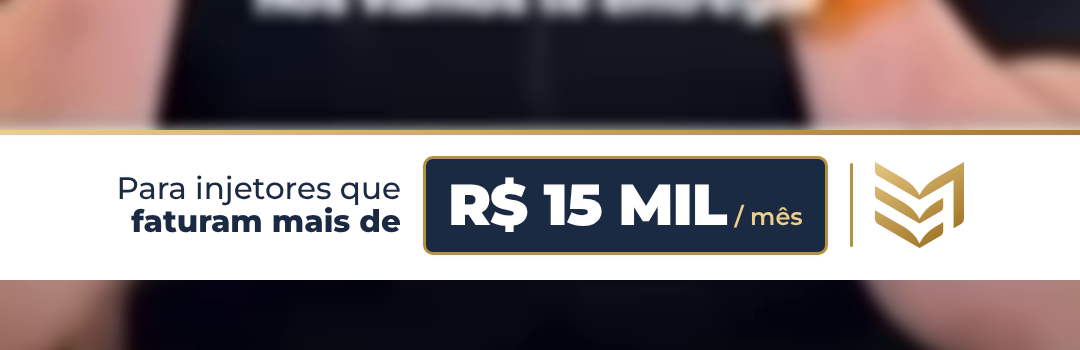
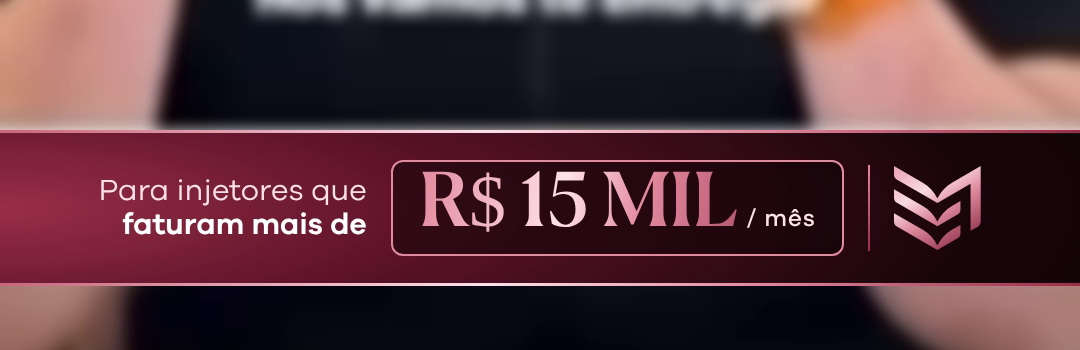
Elite Experience: faixa, CTA e script de criativo na identidade oficial (granada/rosé, Canela Deck + Galano)
Também corrige fea_transcrever.py: passa o áudio já decodificado ao Whisper (PyAV 19 removeu metadata_errors).

Claude-Session: https://claude.ai/code/session_0117TgWTUDUiY53Vca1N5i1x

diff --git a/FEA-edicao-videos/FEA-elite-faixa/FEA-elite-faixa.html b/FEA-edicao-videos/FEA-elite-faixa/FEA-elite-faixa.html
@@ -1,20 +1,21 @@
 <!doctype html><html><head><meta charset="utf-8"><style>
-@font-face{font-family:M;font-weight:500;src:url(../../fonts/Montserrat-Medium.ttf)}
-@font-face{font-family:M;font-weight:700;src:url(../../fonts/Montserrat-SemiBold.ttf)}
-@font-face{font-family:M;font-weight:800;src:url(../../fonts/Montserrat-ExtraBold.ttf)}
-@font-face{font-family:M;font-weight:900;src:url(../../fonts/Montserrat-Black.ttf)}
+@font-face{font-family:G;font-weight:300;src:url(fonts/Galano-Regular.otf)}
+@font-face{font-family:G;font-weight:500;src:url(fonts/Galano-Medium.otf)}
+@font-face{font-family:G;font-weight:600;src:url(fonts/Galano-SemiBold.otf)}
+@font-face{font-family:C;src:url(fonts/CanelaDeck-Medium.otf)}
 html,body{margin:0;background:transparent}
-.faixa{width:1080px;height:150px;background:#fff;display:flex;align-items:center;justify-content:center;gap:22px;font-family:M;position:relative;box-shadow:0 6px 18px rgba(0,0,0,.25)}
-.faixa:before{content:"";position:absolute;left:0;right:0;top:0;height:5px;background:linear-gradient(90deg,#ecd08a,#a87b2c)}
-.txt{color:#1c2b44;font-size:31px;line-height:1.08;text-align:right;font-weight:500}
-.txt b{font-weight:800}
-.box{background:#1c2b44;color:#fff;border-radius:10px;padding:10px 22px 12px;display:flex;align-items:baseline;gap:8px;border:3px solid #b8913f}
-.box .v{font-weight:900;font-size:58px;letter-spacing:-1px;color:#fff}
-.box .v span{color:#ecd08a}
-.box .m{font-weight:700;font-size:24px;color:#ecd08a}
-.sep{width:3px;height:84px;background:#b8913f;border-radius:2px}
-.ic{height:86px}
+.faixa{width:1080px;height:156px;display:flex;align-items:center;justify-content:center;gap:24px;position:relative;
+ background:radial-gradient(120% 220% at 0% 50%,#9B2F4B 0%,#5a1328 35%,#1a070c 75%,#0F0507 100%)}
+.faixa:before,.faixa:after{content:"";position:absolute;left:0;right:0;height:3px;background:linear-gradient(90deg,#c9677f,#FFE3EA 45%,#E48AA0 70%,#9B2F4B)}
+.faixa:before{top:0}.faixa:after{bottom:0}
+.txt{color:#FFE3EA;font-family:G;font-weight:300;font-size:30px;line-height:1.12;text-align:right}
+.txt b{font-weight:600;color:#fff}
+.box{display:flex;align-items:baseline;gap:10px;padding:6px 26px 12px;border-radius:12px;border:2px solid #E48AA0;background:rgba(15,5,7,.55)}
+.v{font-family:C;font-size:74px;letter-spacing:-1px;line-height:1;background:linear-gradient(100deg,#E48AA0 0%,#FFE3EA 45%,#E48AA0 70%,#b85a74 100%);-webkit-background-clip:text;color:transparent}
+.m{font-family:G;font-weight:500;font-size:24px;color:#FFE3EA;letter-spacing:1px}
+.sep{width:2px;height:86px;background:linear-gradient(#E48AA0,#9B2F4B)}
+.ic{height:84px}
 </style></head><body>
 <div class="faixa" id="f"><div class="txt">Para injetores que<br><b>faturam mais de</b></div>
 <div class="box"><div class="v">R$ 15 MIL</div><div class="m">/ mês</div></div>
-<div class="sep"></div><img class="ic" src="icone.svg"></div></body></html>
+<div class="sep"></div><img class="ic" src="EE_Simbolo_Principal.svg"></div></body></html>

diff --git a/FEA-edicao-videos/FEA-elite-faixa/FEA-elite-cta.html b/FEA-edicao-videos/FEA-elite-faixa/FEA-elite-cta.html
@@ -1,0 +1,6 @@
+<!doctype html><html><head><meta charset="utf-8"><style>
+@font-face{font-family:G;font-weight:600;src:url(fonts/Galano-SemiBold.otf)}
+html,body{margin:0;background:transparent}
+#f{display:inline-flex;align-items:center;gap:18px;background:#E48AA0;border-radius:999px;padding:22px 46px 22px 26px;font-family:G;font-weight:600;font-size:36px;letter-spacing:5px;color:#0F0507}
+.c{width:46px;height:46px;border-radius:50%;background:#0F0507;display:flex;align-items:center;justify-content:center}
+</style></head><body><div id="f"><div class="c"><svg width="22" height="14" viewBox="0 0 22 14"><path d="M2 2l9 9 9-9" stroke="#E48AA0" stroke-width="3.5" fill="none" stroke-linecap="round" stroke-linejoin="round"/></svg></div>CLIQUE E SAIBA MAIS</div></body></html>

diff --git a/FEA-edicao-videos/FEA-elite-faixa/fea_faixa_png.js b/FEA-edicao-videos/FEA-elite-faixa/fea_faixa_png.js
@@ -1,2 +1,2 @@
-const {chromium}=require('playwright');(async()=>{const b=await chromium.launch();const p=await b.newPage({viewport:{width:1080,height:200}});
+const {chromium}=require('playwright');(async()=>{const b=await chromium.launch();const p=await b.newPage({viewport:{width:1080,height:1920}});
 await p.goto('file://'+process.argv[2]);await p.waitForTimeout(500);await (await p.$('#f')).screenshot({path:process.argv[3],omitBackground:true});await b.close()})();

diff --git a/FEA-edicao-videos/FEA-elite-faixa/FEA-elite-flash.html b/FEA-edicao-videos/FEA-elite-faixa/FEA-elite-flash.html
@@ -1,0 +1,2 @@
+<!doctype html><html><head><style>html,body{margin:0;background:transparent}
+#f{width:1080px;height:1920px;background:radial-gradient(70% 50% at 0% 45%,rgba(228,138,160,.85),rgba(155,47,75,.45) 45%,rgba(142,31,58,.15) 75%,rgba(0,0,0,0) 100%)}</style></head><body><div id="f"></div></body></html>

diff --git a/FEA-edicao-videos/fea_elite_criativo.py b/FEA-edicao-videos/fea_elite_criativo.py
@@ -1,0 +1,191 @@
+#!/usr/bin/env python3
+"""FEA: edição de criativo (anúncio) do Elite Experience no estilo "faixa de qualificação".
+
+Estilo pedido pela Keila em 17/11/2026 (referência: anúncio com faixa "Para empresas que faturam
+mais de R$ 100 MIL / mês"), aplicado na identidade visual oficial do Elite Experience
+(manual em ELITE EXPERIENCE > 5. LOGO > Elite Experience - Identidade Visual):
+  - faixa granada/rosé com "Para injetores que faturam mais de R$ 15 MIL / mês" do início até
+    o momento em que ele fala "clica/clicar aqui em saiba mais";
+  - dali até o fim, pílula "CLIQUE E SAIBA MAIS" (chamada do manual: Galano SemiBold sobre rosé
+    #E48AA0, texto #0F0507) e um flash de luz rosé de 0,8 s na entrada;
+  - legenda curta (até 3 palavras), Galano Grotesque SemiBold branca, números e palavras-chave
+    em rosé #E48AA0;
+  - zoom alternado (1,00 / 1,10) a cada frase, como os cortes secos da referência.
+
+Uso:
+  python3 fea_elite_criativo.py BRUTO.MOV TRANSCRICAO.json SAIDA.mp4 --ativos PASTA [--inicio s] [--fim s]
+PASTA de ativos: faixa.png, cta.png, flash.png e fonts/ (Galano Grotesque).
+"""
+import argparse
+import json
+import os
+import re
+import subprocess
+import sys
+
+sys.path.insert(0, os.path.dirname(os.path.abspath(__file__)))
+from fea_editar_video import CORRECOES  # regra FEA ("pra" -> "para") e grafias
+
+EXTRAS = [(r"\bSaba\b", "Saiba"), (r"\bsaiba mais\b", "Saiba Mais"), (r"\b[Ee]lite [Ee]xperience\b", "Elite Experience"),
+          (r"\b15 mil reais\b", "R$ 15 mil"), (r"\btá\b", "está"), (r"\bTá\b", "Está")]
+DESTAQUE = re.compile(r"^(R\$|\d+%?|mil|gratuito|gratuita|Elite|Experience|São|Paulo|200|dois|dias|presencial|"
+                      r"marketing|vendas|equipe|crescer|selecionar|selecionado|selecionadas)$", re.I)
+LIGACAO = re.compile(r"(?i)^(e|o|a|os|as|de|do|da|dos|das|em|no|na|um|uma|que|para|pra|com|se|eu|você|"
+                     r"sua|seu|teu|tua|meu|minha|é|por|ao|à)$")
+ROSE ="&H00A08AE4&"   # #E48AA0 em BGR do ASS
+BRANCO = "&H00FFFFFF&"
+
+
+def corrigir(t):
+    for a, b in CORRECOES + EXTRAS:
+        t = re.sub(a, b, t)
+    return t
+
+
+def palavras(tr, ini, fim):
+    out = []
+    for s in tr:
+        for w in s["words"]:
+            if w["s"] >= ini - 0.05 and w["e"] <= fim + 0.3:
+                out.append({"s": max(w["s"], ini) - ini, "e": min(w["e"], fim) - ini, "w": w["w"].strip()})
+    return out
+
+
+UNIDADES = [r"(?i)^saiba mais", r"(?i)^são paulo", r"(?i)^\d+ mil( reais)?", r"(?i)^elite experience",
+            r"(?i)^dois dias", r"(?i)^\d+ (pessoas|profissionais|inscritos)"]
+
+
+def juntar_unidades(pal):
+    """Expressões que nunca se separam na legenda viram um único token."""
+    out, i = [], 0
+    while i < len(pal):
+        feito = False
+        for n in (3, 2):
+            grupo = pal[i:i + n]
+            if len(grupo) < n:
+                continue
+            txt = " ".join(re.sub(r"[.,!?]$", "", g["w"]) for g in grupo[:-1]) + " " + grupo[-1]["w"]
+            if any(re.match(u + r"[.,!?]?$", txt) for u in UNIDADES):
+                out.append({"s": grupo[0]["s"], "e": grupo[-1]["e"], "w": txt})
+                i += n
+                feito = True
+                break
+        if not feito:
+            out.append(pal[i])
+            i += 1
+    return out
+
+
+def blocos(pal, max_pal=3, max_chars=20):
+    """Agrupa em blocos curtos; quebra em pontuação e respeita limite de caracteres."""
+    pal = juntar_unidades(pal)
+    res, cur = [], []
+    for p in pal:
+        texto = " ".join(x["w"] for x in cur + [p])
+        if cur and (sum(len(x["w"].split()) for x in cur) >= max_pal or len(texto) > max_chars):
+            res.append(cur)
+            cur = []
+        cur.append(p)
+        if re.search(r"[.,!?]$", p["w"]):
+            res.append(cur)
+            cur = []
+    if cur:
+        res.append(cur)
+    # palavra de ligação, número ou "São" no fim do bloco vai para o próximo bloco
+    # (evita "em São" / "Paulo", "de 15" / "mil")
+    for i in range(len(res) - 1):
+        while (len(res[i]) > 1 and not re.search(r"[.,!?]$", res[i][-1]["w"])
+               and LIGACAO.match(res[i][-1]["w"])
+               and sum(len(x["w"].split()) for x in res[i + 1]) < 4):
+            res[i + 1].insert(0, res[i].pop())
+    return [b for b in res if b]
+
+
+def ts(t):
+    t = max(t, 0)
+    return f"{int(t // 3600)}:{int(t % 3600 // 60):02d}:{t % 60:05.2f}"
+
+
+def gerar_ass(bls, caminho, y=1235):
+    cab = ("[Script Info]\nScriptType: v4.00+\nPlayResX: 1080\nPlayResY: 1920\nWrapStyle: 2\n\n"
+           "[V4+ Styles]\nFormat: Name, Fontname, Fontsize, PrimaryColour, SecondaryColour, OutlineColour, BackColour, "
+           "Bold, Italic, Underline, StrikeOut, ScaleX, ScaleY, Spacing, Angle, BorderStyle, Outline, Shadow, Alignment, "
+           "MarginL, MarginR, MarginV, Encoding\n"
+           "Style: L,Galano Grotesque SemiBold,72,&H00FFFFFF,&H00FFFFFF,&H00070510,&H96070510,0,0,0,0,100,100,0,0,1,0,3,5,60,60,0,1\n\n"
+           "[Events]\nFormat: Layer, Start, End, Style, Name, MarginL, MarginR, MarginV, Effect, Text\n")
+    linhas = []
+    for i, b in enumerate(bls):
+        s = b[0]["s"]
+        e = bls[i + 1][0]["s"] if i + 1 < len(bls) and bls[i + 1][0]["s"] - b[-1]["e"] < 0.6 else b[-1]["e"] + 0.15
+        texto = corrigir(" ".join(p["w"] for p in b))
+        texto = re.sub(r"[.,]$", "", texto)
+        partes = []
+        for w in texto.split(" "):
+            nucleo = re.sub(r"[^\wÀ-ÿ$%]", "", w)
+            cor = ROSE if DESTAQUE.match(nucleo or "-") else BRANCO
+            partes.append("{\\c" + cor + "}" + w)
+        linhas.append(f"Dialogue: 0,{ts(s)},{ts(e)},L,,0,0,0,,{{\\pos(540,{y})\\fad(60,0)}}" + " ".join(partes))
+    open(caminho, "w", encoding="utf-8").write(cab + "\n".join(linhas) + "\n")
+
+
+def momento_cta(pal):
+    for i, p in enumerate(pal):
+        if re.match(r"(?i)clic", p["w"]):
+            return p["s"]
+    return None
+
+
+def main():
+    ap = argparse.ArgumentParser()
+    ap.add_argument("entrada"); ap.add_argument("transcricao"); ap.add_argument("saida")
+    ap.add_argument("--ativos", required=True)
+    ap.add_argument("--inicio", type=float); ap.add_argument("--fim", type=float)
+    ap.add_argument("--ffmpeg", default="ffmpeg")
+    ap.add_argument("--previa", action="store_true")
+    a = ap.parse_args()
+    tr = json.load(open(a.transcricao, encoding="utf-8"))
+    todas = [w for s in tr for w in s["words"]]
+    ini = a.inicio if a.inicio is not None else max(0, todas[0]["s"] - 0.25)
+    fim = a.fim if a.fim is not None else todas[-1]["e"] + 0.4
+    dur = fim - ini
+    pal = palavras(tr, ini, fim)
+    cta = momento_cta(pal) or dur * 0.6
+    bls = blocos(pal)
+    base = os.path.splitext(a.saida)[0]
+    ass = base + ".ass"
+    gerar_ass(bls, ass)
+
+    # zoom alternado por frase (fronteiras = início de cada segmento da transcrição)
+    cortes = [max(0.0, s["start"] - ini) for s in tr if ini - 0.1 <= s["start"] < fim]
+    cortes = sorted(set(round(c, 2) for c in cortes if c > 0.3))
+    # expressão em cadeia: z(t) = z_k para t no intervalo k
+    zs = []
+    for i, c in enumerate(cortes):
+        zs.append((c, 1.10 if i % 2 == 0 else 1.0))
+    expr = "1"
+    for c, z in zs:
+        expr = f"if(gte(t\\,{c})\\,{z}\\,{expr})"
+    at = a.ativos
+    esc = ass.replace(":", "\\:").replace("'", "\\'")
+    fx = (f"[0:v]setpts=PTS-STARTPTS,scale=1080:1920:force_original_aspect_ratio=increase,crop=1080:1920,"
+          f"scale=w='trunc(1080*{expr}/2)*2':h='trunc(1920*{expr}/2)*2':eval=frame,crop=1080:1920,setsar=1,fps=30[v0];"
+          f"[1:v]format=rgba[fa];[2:v]format=rgba[ct];"
+          f"[3:v]format=rgba,fade=in:st={cta:.2f}:d=0.2:alpha=1,fade=out:st={cta + 0.25:.2f}:d=0.6:alpha=1[fl];"
+          f"[v0][fa]overlay=0:1395:enable='lt(t,{cta:.2f})'[v1];"
+          f"[v1][ct]overlay=(W-w)/2:1420:enable='gte(t,{cta:.2f})'[v2];"
+          f"[v2][fl]overlay=0:0:enable='between(t,{cta:.2f},{cta + 0.9:.2f})'[v3];"
+          f"[v3]ass='{esc}':fontsdir='{at}/fonts'[vo]")
+    cmd = [a.ffmpeg, "-v", "error", "-y", "-ss", f"{ini:.3f}", "-t", f"{dur:.3f}", "-i", a.entrada,
+           "-loop", "1", "-t", f"{dur:.3f}", "-i", f"{at}/faixa.png",
+           "-loop", "1", "-t", f"{dur:.3f}", "-i", f"{at}/cta.png",
+           "-loop", "1", "-t", f"{dur:.3f}", "-framerate", "30", "-i", f"{at}/flash.png",
+           "-filter_complex", fx, "-map", "[vo]", "-map", "0:a",
+           "-c:v", "libx264", "-preset", "veryfast" if a.previa else "slow", "-crf", "23" if a.previa else "18",
+           "-pix_fmt", "yuv420p", "-profile:v", "high", "-c:a", "aac", "-b:a", "192k", "-ar", "48000",
+           "-movflags", "+faststart", "-t", f"{dur:.3f}", a.saida]
+    subprocess.run(cmd, check=True)
+    print(f"OK {a.saida}: {dur:.1f} s, CTA aos {cta:.1f} s, {len(bls)} blocos de legenda")
+
+
+if __name__ == "__main__":
+    main()

diff --git a/FEA-edicao-videos/fea_transcrever.py b/FEA-edicao-videos/fea_transcrever.py
@@ -168,7 +168,7 @@ def main():
         if so_complemento:
             out = [s for s in json.load(open(destino, encoding="utf-8")) if not s.get("complemento")]
         else:
-            segs, _ = modelo.transcribe(wav, language="pt", word_timestamps=True, initial_prompt=PROMPT,
+            segs, _ = modelo.transcribe(carregar_audio(wav), language="pt", word_timestamps=True, initial_prompt=PROMPT,
                                         vad_filter=True, condition_on_previous_text=False)
             out = [{"start": s.start, "end": s.end, "text": s.text,
                     "words": [{"s": x.start, "e": x.end, "w": x.word} for x in s.words]} for s in segs]

diff --git a/FEA-edicao-videos/FEA-elite-faixa/LEIAME-FEA.md b/FEA-edicao-videos/FEA-elite-faixa/LEIAME-FEA.md
@@ -1,0 +1,8 @@
+# FEA Elite Experience: ativos do criativo "faixa de qualificação"
+
+Identidade: manual oficial do Elite Experience (Drive: ELITE EXPERIENCE > 5. LOGO > Elite Experience - Identidade Visual).
+Cores: base escura #0F0507, granada #8E1F3A, bordô #9B2F4B, rosé #E48AA0, rosé claro #FFE3EA.
+Fontes: Canela Deck (valor) e Galano Grotesque (textos), baixar da pasta 03 - TIPOGRAFIA do manual para `fonts/` (não ficam no git por licença).
+
+Gerar PNG: `node fea_faixa_png.js $PWD/FEA-elite-faixa.html saida.png`
+Editar vídeo: `python3 ../fea_elite_criativo.py BRUTO.MOV TRANSCRICAO.json SAIDA.mp4 --ativos PASTA` (PASTA com faixa.png, cta.png, flash.png e fonts/).
